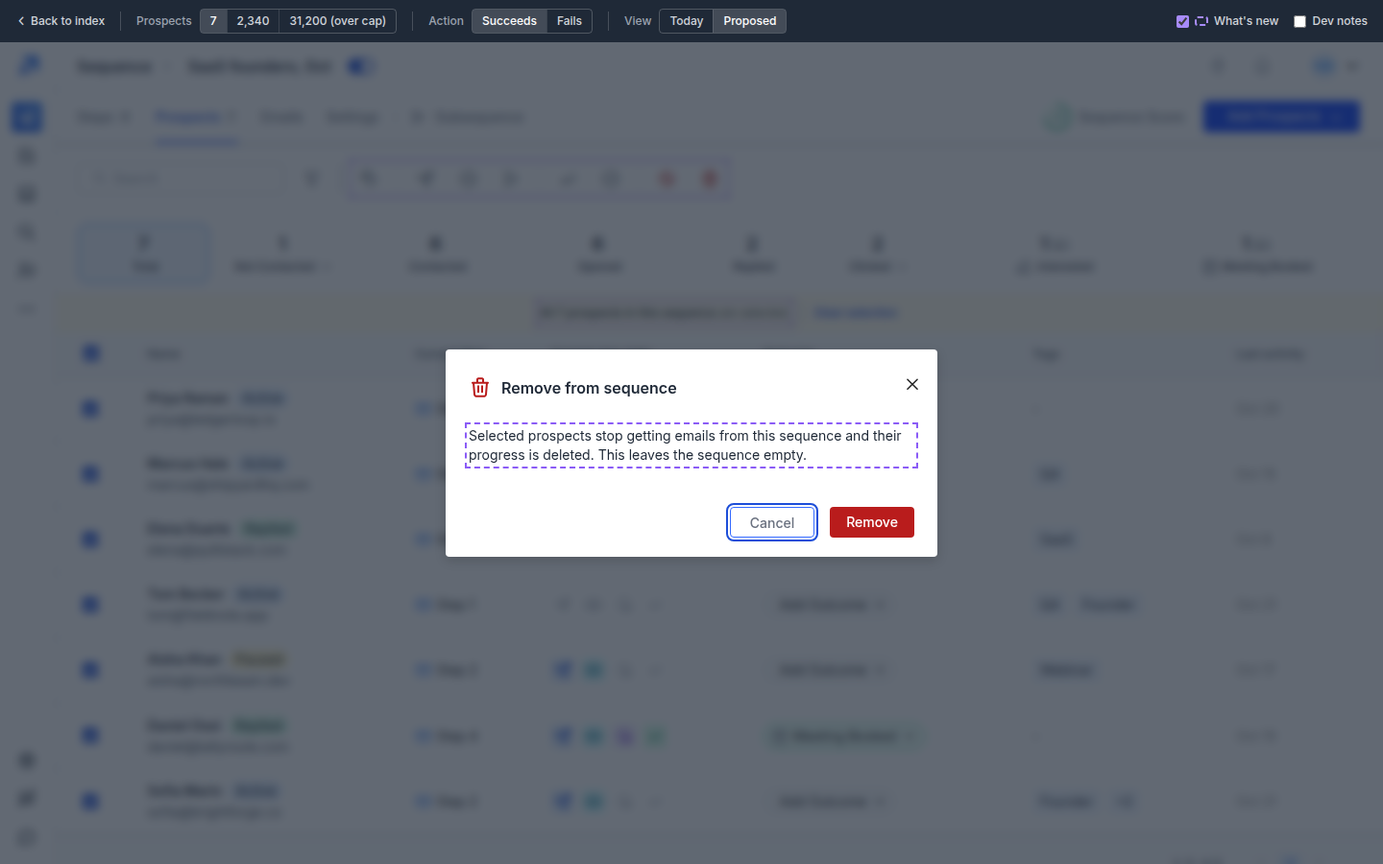
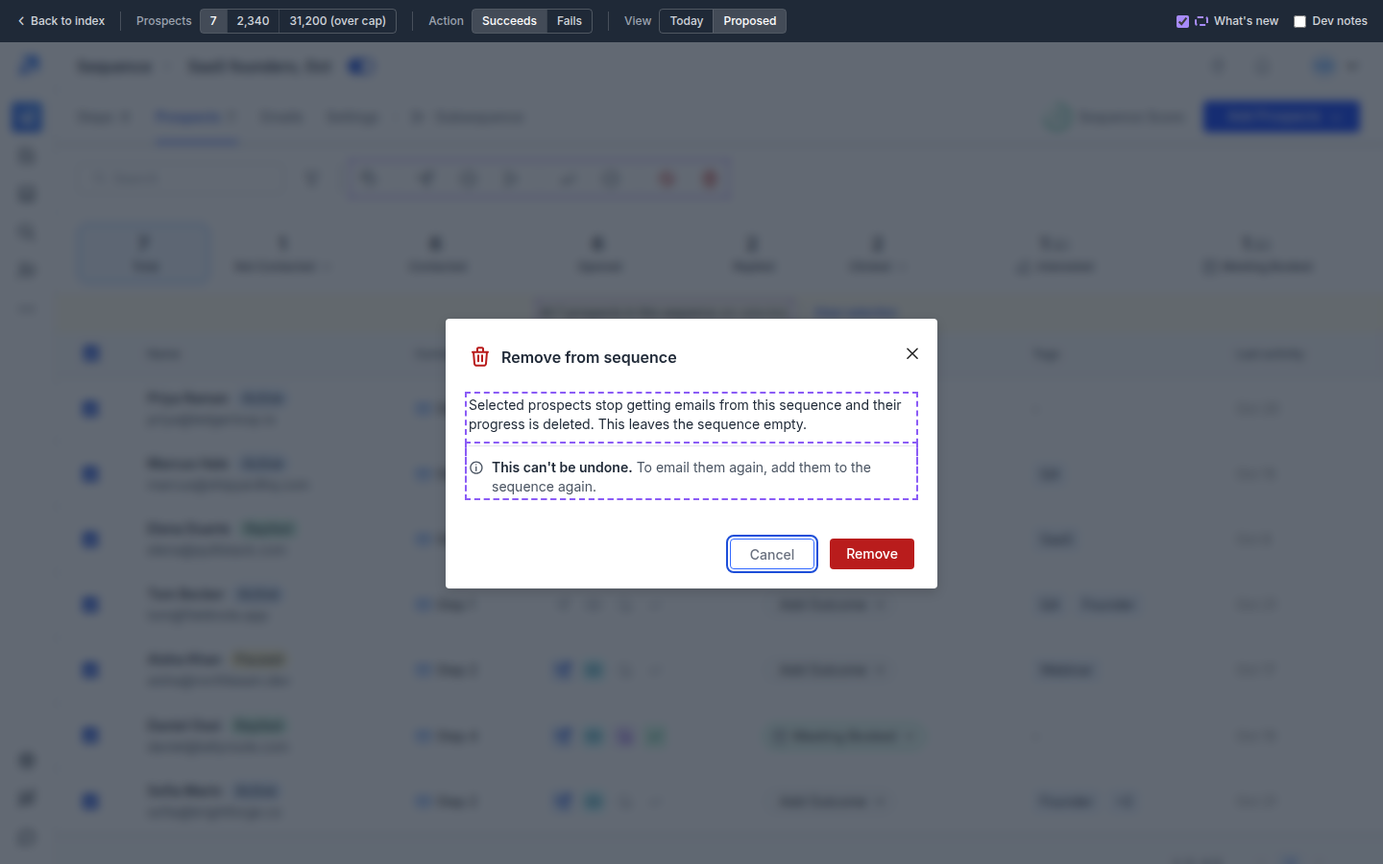
Remove from sequence has no undo; note row at 14px
- Remove dialog carries the grey note: This can't be undone. To email them again, add them to the sequence again.
- Toast after Remove has no Undo; screen 05-seqp-undo dropped
- Note row text 14px/20px to match the body
- PRD D3, 6.1 acceptance, spec (Pause/Resume undo corrected to none), screens and canvas rebuilt

Changed region(s): [[0.3125, 0.3422, 0.6875, 0.6844]]

diff --git a/canvas/index.html b/canvas/index.html
@@ -52,7 +52,7 @@ a{color:var(--primary);text-decoration:none} a:hover{text-decoration:underline;t
 <header class="cv-top">
   <a class="cv-back" href="../index.html">&larr; <span class="cv-back-long">Back to </span>PRD</a>
   <h1>Safe actions: no risky action on one click</h1>
-  <span class="cv-meta">35 screens, 11 surfaces</span>
+  <span class="cv-meta">34 screens, 11 surfaces</span>
   <span class="cv-sp"></span>
   <div class="cv-tools">
     <button class="cv-btn" data-z="out" aria-label="Zoom out" title="Zoom out"><svg viewBox="0 0 24 24" fill="none" stroke="currentColor" stroke-width="2" stroke-linecap="round"><path d="M5 12h14"/></svg></button>
@@ -63,7 +63,7 @@ a{color:var(--primary);text-decoration:none} a:hover{text-decoration:underline;t
 </header>
 <main class="cv-vp" aria-label="Canvas of every screen. Drag to move, Ctrl or Cmd and scroll to zoom, click a screen to open it">
   <div class="cv-board">
-<section class="cv-row" id="surface-6-1"><header class="cv-label"><span class="cv-num">6.1</span><h2>Sequence &gt; Prospects</h2><p>Rows 1-4</p><a class="cv-proto" href="../prototype/sequence-prospects.html" target="_blank" rel="noopener">Open in prototype</a></header><div class="cv-frames"><figure class="cv-frame"><figcaption>Today</figcaption><a class="zoom" href="../screens/01-seqp-today.png" aria-label="View larger: Sequence &gt; Prospects, Today"><img src="../screens/01-seqp-today.png" alt="Sequence &gt; Prospects: Today" width="480" height="300" loading="lazy" draggable="false"></a></figure><figure class="cv-frame"><figcaption>Proposed: icon bar and banner</figcaption><a class="zoom" href="../screens/02-seqp-bar.png" aria-label="View larger: Sequence &gt; Prospects, Proposed: icon bar and banner"><img src="../screens/02-seqp-bar.png" alt="Sequence &gt; Prospects: Proposed: icon bar and banner" width="480" height="300" loading="lazy" draggable="false"></a></figure><figure class="cv-frame"><figcaption>Proposed: remove dialog, whole sequence selected</figcaption><a class="zoom" href="../screens/04-seqp-remove.png" aria-label="View larger: Sequence &gt; Prospects, Proposed: remove dialog, whole sequence selected"><img src="../screens/04-seqp-remove.png" alt="Sequence &gt; Prospects: Proposed: remove dialog, whole sequence selected" width="480" height="300" loading="lazy" draggable="false"></a></figure><figure class="cv-frame"><figcaption>Proposed: unsubscribe dialog, can&#x27;t be undone</figcaption><a class="zoom" href="../screens/03-seqp-unsub.png" aria-label="View larger: Sequence &gt; Prospects, Proposed: unsubscribe dialog, can&#x27;t be undone"><img src="../screens/03-seqp-unsub.png" alt="Sequence &gt; Prospects: Proposed: unsubscribe dialog, can&#x27;t be undone" width="480" height="300" loading="lazy" draggable="false"></a></figure><figure class="cv-frame"><figcaption>Proposed: undo after remove</figcaption><a class="zoom" href="../screens/05-seqp-undo.png" aria-label="View larger: Sequence &gt; Prospects, Proposed: undo after remove"><img src="../screens/05-seqp-undo.png" alt="Sequence &gt; Prospects: Proposed: undo after remove" width="480" height="300" loading="lazy" draggable="false"></a></figure></div></section>
+<section class="cv-row" id="surface-6-1"><header class="cv-label"><span class="cv-num">6.1</span><h2>Sequence &gt; Prospects</h2><p>Rows 1-4</p><a class="cv-proto" href="../prototype/sequence-prospects.html" target="_blank" rel="noopener">Open in prototype</a></header><div class="cv-frames"><figure class="cv-frame"><figcaption>Today</figcaption><a class="zoom" href="../screens/01-seqp-today.png" aria-label="View larger: Sequence &gt; Prospects, Today"><img src="../screens/01-seqp-today.png" alt="Sequence &gt; Prospects: Today" width="480" height="300" loading="lazy" draggable="false"></a></figure><figure class="cv-frame"><figcaption>Proposed: icon bar and banner</figcaption><a class="zoom" href="../screens/02-seqp-bar.png" aria-label="View larger: Sequence &gt; Prospects, Proposed: icon bar and banner"><img src="../screens/02-seqp-bar.png" alt="Sequence &gt; Prospects: Proposed: icon bar and banner" width="480" height="300" loading="lazy" draggable="false"></a></figure><figure class="cv-frame"><figcaption>Proposed: remove dialog, whole sequence selected</figcaption><a class="zoom" href="../screens/04-seqp-remove.png" aria-label="View larger: Sequence &gt; Prospects, Proposed: remove dialog, whole sequence selected"><img src="../screens/04-seqp-remove.png" alt="Sequence &gt; Prospects: Proposed: remove dialog, whole sequence selected" width="480" height="300" loading="lazy" draggable="false"></a></figure><figure class="cv-frame"><figcaption>Proposed: unsubscribe dialog, can&#x27;t be undone</figcaption><a class="zoom" href="../screens/03-seqp-unsub.png" aria-label="View larger: Sequence &gt; Prospects, Proposed: unsubscribe dialog, can&#x27;t be undone"><img src="../screens/03-seqp-unsub.png" alt="Sequence &gt; Prospects: Proposed: unsubscribe dialog, can&#x27;t be undone" width="480" height="300" loading="lazy" draggable="false"></a></figure></div></section>
 <section class="cv-row" id="surface-6-2"><header class="cv-label"><span class="cv-num">6.2</span><h2>Sequence list</h2><p>Rows 5, 37</p><a class="cv-proto" href="../prototype/sequence-list.html" target="_blank" rel="noopener">Open in prototype</a></header><div class="cv-frames"><figure class="cv-frame"><figcaption>Today</figcaption><a class="zoom" href="../screens/06-seql-today.png" aria-label="View larger: Sequence list, Today"><img src="../screens/06-seql-today.png" alt="Sequence list: Today" width="480" height="300" loading="lazy" draggable="false"></a></figure><figure class="cv-frame"><figcaption>Proposed: pause</figcaption><a class="zoom" href="../screens/07-seql-pause.png" aria-label="View larger: Sequence list, Proposed: pause"><img src="../screens/07-seql-pause.png" alt="Sequence list: Proposed: pause" width="480" height="300" loading="lazy" draggable="false"></a></figure><figure class="cv-frame"><figcaption>Proposed: delete</figcaption><a class="zoom" href="../screens/08-seql-delete.png" aria-label="View larger: Sequence list, Proposed: delete"><img src="../screens/08-seql-delete.png" alt="Sequence list: Proposed: delete" width="480" height="300" loading="lazy" draggable="false"></a></figure></div></section>
 <section class="cv-row" id="surface-6-3"><header class="cv-label"><span class="cv-num">6.3</span><h2>Sequence &gt; Steps and Settings</h2><p>Rows 6, 7</p><a class="cv-proto" href="../prototype/sequence-steps.html" target="_blank" rel="noopener">Open in prototype</a></header><div class="cv-frames"><figure class="cv-frame"><figcaption>Today: delete step</figcaption><a class="zoom" href="../screens/09-steps-today.png" aria-label="View larger: Sequence &gt; Steps and Settings, Today: delete step"><img src="../screens/09-steps-today.png" alt="Sequence &gt; Steps and Settings: Today: delete step" width="480" height="300" loading="lazy" draggable="false"></a></figure><figure class="cv-frame"><figcaption>Proposed: delete step</figcaption><a class="zoom" href="../screens/10-steps-delete.png" aria-label="View larger: Sequence &gt; Steps and Settings, Proposed: delete step"><img src="../screens/10-steps-delete.png" alt="Sequence &gt; Steps and Settings: Proposed: delete step" width="480" height="300" loading="lazy" draggable="false"></a></figure><figure class="cv-frame"><figcaption>Today: remove email account</figcaption><a class="zoom" href="../screens/11-steps-remove-today.png" aria-label="View larger: Sequence &gt; Steps and Settings, Today: remove email account"><img src="../screens/11-steps-remove-today.png" alt="Sequence &gt; Steps and Settings: Today: remove email account" width="480" height="300" loading="lazy" draggable="false"></a></figure><figure class="cv-frame"><figcaption>Proposed: remove email account</figcaption><a class="zoom" href="../screens/12-steps-remove.png" aria-label="View larger: Sequence &gt; Steps and Settings, Proposed: remove email account"><img src="../screens/12-steps-remove.png" alt="Sequence &gt; Steps and Settings: Proposed: remove email account" width="480" height="300" loading="lazy" draggable="false"></a></figure></div></section>
 <section class="cv-row" id="surface-6-4"><header class="cv-label"><span class="cv-num">6.4</span><h2>Unified Inbox</h2><p>Rows 8-10</p><a class="cv-proto" href="../prototype/unified-inbox.html" target="_blank" rel="noopener">Open in prototype</a></header><div class="cv-frames"><figure class="cv-frame"><figcaption>Today</figcaption><a class="zoom" href="../screens/13-inbox-today.png" aria-label="View larger: Unified Inbox, Today"><img src="../screens/13-inbox-today.png" alt="Unified Inbox: Today" width="480" height="300" loading="lazy" draggable="false"></a></figure><figure class="cv-frame"><figcaption>Proposed: delete</figcaption><a class="zoom" href="../screens/14-inbox-delete.png" aria-label="View larger: Unified Inbox, Proposed: delete"><img src="../screens/14-inbox-delete.png" alt="Unified Inbox: Proposed: delete" width="480" height="300" loading="lazy" draggable="false"></a></figure><figure class="cv-frame"><figcaption>Proposed: assign outcome</figcaption><a class="zoom" href="../screens/15-inbox-outcome.png" aria-label="View larger: Unified Inbox, Proposed: assign outcome"><img src="../screens/15-inbox-outcome.png" alt="Unified Inbox: Proposed: assign outcome" width="480" height="300" loading="lazy" draggable="false"></a></figure></div></section>

diff --git a/index.html b/index.html
@@ -283,11 +283,11 @@ figure img{width:100%;height:auto}
 
 <p><strong>D1 – The impact dialog appears on every risky action, including a single item.</strong> <strong>Consequence to accept:</strong> one extra step on frequent clean-up work.</p>
 <p><strong>D2 – Typing to confirm stays only where production asks for it today</strong> (typed "delete" on sequence, subsequence, step and variant delete). The Sequence &gt; Prospects dialogs never ask to type. Whether other new red dialogs ask to type is Q5. <strong>Consequence to accept:</strong> on Sequence &gt; Prospects, one click on the red button inside the dialog removes or unsubscribes.</p>
-<p><strong>D3 – Undo lasts 10 seconds; there is no restore after that.</strong> No undo on spends, security switches, plan changes, account deletion, or disconnecting integrations and mailboxes (their side effects outside Saleshandy happen at once). No undo on Unsubscribe: a prospect is shared across sequences, so the system can't tell a user's resubscribe from the recipient's own unsubscribe, a compliance risk. No undo on Mark as finished: undoing would send the remaining steps. Both dialogs say so and give the way back: remove from the sequence and add again (engineering review, 19 Nov 2026). <strong>Consequence to accept:</strong> a mistake noticed later stays unrecoverable; the reported customer noticed after 4 minutes.</p>
+<p><strong>D3 – Undo lasts 10 seconds; there is no restore after that.</strong> No undo on spends, security switches, plan changes, account deletion, or disconnecting integrations and mailboxes (their side effects outside Saleshandy happen at once). No undo on Remove from sequence: their progress in the sequence is deleted. No undo on Unsubscribe: a prospect is shared across sequences, so the system can't tell a user's resubscribe from the recipient's own unsubscribe, a compliance risk. No undo on Mark as finished: undoing would send the remaining steps. All three dialogs say so and give the way back: add them to the sequence again (engineering review, 19 Nov 2026). <strong>Consequence to accept:</strong> a mistake noticed later stays unrecoverable; on Sequence &gt; Prospects the dialog is the only guard for Remove, Unsubscribe and Mark as finished.</p>
 </section>
 <section id="6-surfaces" class="sec"><div class="sec-head"><span class="sec-num">6</span><h2>Surfaces</h2></div>
 
-<p>Every state below opens from the prototype's demo bar, with a Today / Proposed switch on each screen. To compare all 35 screens side by side, open the <a href="canvas/index.html">canvas</a>.</p>
+<p>Every state below opens from the prototype's demo bar, with a Today / Proposed switch on each screen. To compare every screen side by side, open the <a href="canvas/index.html">canvas</a>.</p>
 <h3 id="6-1-sequence-prospects-rows-1-4">6.1 Sequence &gt; Prospects (rows 1-4)</h3>
 <figure><figcaption>Today</figcaption><a class="zoom" href="screens/01-seqp-today.png" aria-label="View larger: Today"><img src="screens/01-seqp-today.png" style="max-width:885px" alt="Today" loading="lazy"></a></figure>
 <p><strong>Why.</strong> The remove action is an X among seven similar icons and fires at once; the banner hides that the selection is the whole sequence.</p>
@@ -295,7 +295,6 @@ figure img{width:100%;height:auto}
 <figure><figcaption>Proposed: icon bar and banner</figcaption><a class="zoom" href="screens/02-seqp-bar.png" aria-label="View larger: Proposed: icon bar and banner"><img src="screens/02-seqp-bar.png" style="max-width:885px" alt="Proposed: icon bar and banner" loading="lazy"></a></figure>
 <figure><figcaption>Proposed: remove dialog, whole sequence selected</figcaption><a class="zoom" href="screens/04-seqp-remove.png" aria-label="View larger: Proposed: remove dialog, whole sequence selected"><img src="screens/04-seqp-remove.png" style="max-width:885px" alt="Proposed: remove dialog, whole sequence selected" loading="lazy"></a></figure>
 <figure><figcaption>Proposed: unsubscribe dialog, can't be undone</figcaption><a class="zoom" href="screens/03-seqp-unsub.png" aria-label="View larger: Proposed: unsubscribe dialog, can't be undone"><img src="screens/03-seqp-unsub.png" style="max-width:885px" alt="Proposed: unsubscribe dialog, can't be undone" loading="lazy"></a></figure>
-<figure><figcaption>Proposed: undo after remove</figcaption><a class="zoom" href="screens/05-seqp-undo.png" aria-label="View larger: Proposed: undo after remove"><img src="screens/05-seqp-undo.png" style="max-width:885px" alt="Proposed: undo after remove" loading="lazy"></a></figure>
 <p><strong>Dialogs.</strong> Title = the action's name with its bar icon; no count, no breakdown, no routine undo line, no typing. Copy per action is in the <a href="https://github.com/product-team-sh/prd-safe-actions/blob/main/safe-actions-spec.md#sequence--prospects-dialogs">spec</a>.</p>
 <div class="tbl-wrap"><table>
 <thead>
@@ -316,42 +315,35 @@ figure img{width:100%;height:auto}
 <tr>
 <td>SP-2</td>
 <td>Remove with all selected</td>
-<td>Title "Remove from sequence"; body ends "This leaves the sequence empty."; Cancel / Remove (red); no typed field</td>
+<td>Title "Remove from sequence"; body ends "This leaves the sequence empty."; note "This can't be undone. To email them again, add them to the sequence again."; Cancel / Remove (red); no typed field</td>
 <td>P0</td>
 </tr>
 <tr>
 <td>SP-3</td>
-<td>Remove, confirm, then Undo within 10 s</td>
-<td>All 7 rows return with the same step, status and outcome; no email went out in between</td>
-<td>P0</td>
-</tr>
-<tr>
-<td>SP-4</td>
-<td>Remove, confirm, wait 10 s</td>
-<td>Removal commits; Undo gone</td>
-<td>P0</td>
-</tr>
-<tr>
-<td>SP-5</td>
-<td>Unsubscribe or Mark as finished, confirm</td>
+<td>Remove, Unsubscribe or Mark as finished, confirm</td>
 <td>Dialog said "This can't be undone." and the way back; toast has no Undo</td>
 <td>P0</td>
 </tr>
 <tr>
-<td>SP-6</td>
+<td>SP-4</td>
+<td>Cancel, Esc or the X on any of these dialogs</td>
+<td>Nothing changes; selection kept</td>
+<td>P0</td>
+</tr>
+<tr>
+<td>SP-5</td>
 <td>Selection includes prospects already in the target state (e.g. already unsubscribed)</td>
 <td>Dialog adds "Prospects who are already unsubscribed will be skipped."; line absent when nobody is skipped</td>
 <td>P1</td>
 </tr>
 <tr>
-<td>SP-7</td>
+<td>SP-6</td>
 <td>Mark as replied, Pause, Resume</td>
 <td>Dialog states the consequence; Pause keeps today's duration picker; replied gets the 10 s undo</td>
 <td>P1</td>
 </tr>
 </tbody>
 </table></div>
-<p><strong>Sign off by name (owner: QA lead, unassigned):</strong> SP-3. Its failure loses customer data while telling the user it is safe.</p>
 <h3 id="6-2-sequence-list-rows-5-37">6.2 Sequence list (rows 5, 37)</h3>
 <figure><figcaption>Today</figcaption><a class="zoom" href="screens/06-seql-today.png" aria-label="View larger: Today"><img src="screens/06-seql-today.png" style="max-width:885px" alt="Today" loading="lazy"></a></figure>
 <p><strong>Why.</strong> Bulk pause names neither the sequences nor how many prospects stop; delete says nothing about what is lost.</p>

diff --git a/prototype/sequence-prospects.js b/prototype/sequence-prospects.js
@@ -117,9 +117,9 @@
       { key: 'view', label: 'View', value: S.view, options: [['today', 'Today'], ['proposed', 'Proposed']], onChange: (v) => { S.view = v; render(); } },
     ],
     devNotes: {
-      intro: 'Bulk bar is icon-only with tooltips; each confirmation is short: action name, one sentence, a skipped-prospects line only when some selected prospects will be skipped, and a grey "This can\'t be undone" note row only for Unsubscribe and Mark as finished. No counts, no typing. Direction D, 19 Nov 2026.',
+      intro: 'Bulk bar is icon-only with tooltips; each confirmation is short: action name, one sentence, a skipped-prospects line only when some selected prospects will be skipped, and a grey "This can\'t be undone" note row only for Remove, Unsubscribe and Mark as finished. No counts, no typing. Direction D, 19 Nov 2026.',
       rows: [
-        { n: 1, surface: 'Sequence > Prospects', action: 'Remove from sequence, Unsubscribe', patterns: 'Red icon and button', breakdown: 'None. Remove: "Selected prospects stop getting emails from this sequence and their progress is deleted.", plus "This leaves the sequence empty." when every prospect is selected. Unsubscribe: "Selected prospects will not get emails from any sequence again.", "Prospects who are already unsubscribed will be skipped." (only when it applies), note: "This can\'t be undone. To email them again, remove them from the sequence and add them again."', undo: 'Remove: 10 seconds. Unsubscribe: none, it cannot be reversed',
+        { n: 1, surface: 'Sequence > Prospects', action: 'Remove from sequence, Unsubscribe', patterns: 'Red icon and button', breakdown: 'None. Remove: "Selected prospects stop getting emails from this sequence and their progress is deleted.", plus "This leaves the sequence empty." when every prospect is selected, note: "This can\'t be undone. To email them again, add them to the sequence again." Unsubscribe: "Selected prospects will not get emails from any sequence again.", "Prospects who are already unsubscribed will be skipped." (only when it applies), note: "This can\'t be undone. To email them again, remove them from the sequence and add them again."', undo: 'None. Remove deletes their progress; Unsubscribe cannot be reversed',
           code: [{ label: 'contact-list-header.tsx L119-152', url: HDR + '#L119-L152' }, { label: 'contact-list-content.tsx L542-608', url: CNT + '#L542-L608' }], v3: '' },
         { n: 2, surface: 'Sequence > Prospects', action: 'Mark as replied, Mark as finished, Resume, Pause', patterns: 'Blue icon and button', breakdown: 'None. Replied: "The sequence stops for selected prospects.", skipped line "Prospects who are already marked as replied will be skipped." Finished: same body, "Prospects who are already finished will be skipped.", note: "This can\'t be undone. To bring them back, remove them from the sequence and add them again." Resume: "Selected prospects continue from their current step.", skip "not paused". Pause: "Emails to selected prospects stop until the pause ends or you resume them.", skip "not in progress".', undo: 'Replied: 10 seconds. Finished, Resume, Pause: none',
           code: [{ label: 'contact-list-header.tsx L131-185', url: HDR + '#L131-L185' }, { label: 'contact-list-content.tsx L586-647 (pause keeps its duration picker)', url: CNT + '#L586-L647' }], v3: '' },
@@ -320,16 +320,12 @@
       return shortDialog({
         name: 'Remove from sequence', glyph: GLYPH.remove, danger: true, primaryLabel: 'Remove',
         body: 'Selected prospects stop getting emails from this sequence and their progress is deleted.' + (every ? ' This leaves the sequence empty.' : ''),
-        failTitle: fail('remove'),
+        cant: 'To email them again, add them to the sequence again.', failTitle: fail('remove'),
         onConfirm: () => {
-          const ids = list.map((p) => p.id);
-          ids.forEach((i) => hidden.add(i));
+          const set = new Set(list.map((p) => p.id));
+          DATA = DATA.filter((p) => !set.has(p.id));
           clearSel(); render();
-          nxUndoToast({
-            message: `Removed ${nP(N)} from ${QSEQ}`, undoneMessage: `Undone. ${nP(N)} ${N === 1 ? 'is' : 'are'} back`,
-            onUndo: () => { ids.forEach((i) => hidden.delete(i)); clearSel(); render(); },
-            onCommit: () => { const set = new Set(ids); DATA = DATA.filter((p) => !set.has(p.id)); ids.forEach((i) => hidden.delete(i)); render(); },
-          });
+          nxToast({ message: `Removed ${nP(N)} from ${QSEQ}` });
         },
       });
     }
@@ -440,7 +436,6 @@
       'dialog-unsubscribe': () => { firstN(S.size === '7' ? 7 : 25); openAction('unsubscribe'); },
       'dialog-single': () => { firstN(1); openAction('remove'); },
       'toast': () => { S.all = true; render(); const d = openAction('remove'); setTimeout(() => d.confirm(), (window.SP_BD || 0) + 50); },
-      'undone': () => { S.all = true; render(); const d = openAction('remove'); setTimeout(() => { d.confirm(); setTimeout(() => document.querySelector('.message-undo').click(), 1000); }, (window.SP_BD || 0) + 50); },
       'today': () => { S.view = 'today'; shell.setControl('view', 'today'); firstN(S.size === '7' ? 7 : 3); },
       'today-pause': () => { S.view = 'today'; shell.setControl('view', 'today'); firstN(7); window.SP_TODAY_PAUSE(() => {}); },
     };

diff --git a/prototype/bar-popups-options.html b/prototype/bar-popups-options.html
@@ -45,8 +45,8 @@ p.l { margin: 0 0 8px; color: #4b5563; }
 .opt-dlg .modal-footer { border-top: 0 !important; }
 .opt-dlg .modal-footer .bs-modal-footer-action-buttons { justify-content: flex-end; }
 .opt-dlg .modal-footer .bs-modal-footer-action-buttons button { width: auto; min-width: 88px; }
-.nx-qnote { display: flex; gap: 8px; align-items: flex-start; padding-top: 12px; border-top: 1px solid #e5e7eb; font-size: 12px; line-height: 16px; color: #4b5563; }
-.nx-qnote i { font-size: 16px; width: 16px; height: 16px; line-height: 16px; color: #4b5563; flex-shrink: 0; }
+.nx-qnote { display: flex; gap: 8px; align-items: flex-start; padding-top: 12px; border-top: 1px solid #e5e7eb; font-size: 14px; line-height: 20px; color: #4b5563; }
+.nx-qnote i { font-size: 16px; width: 16px; height: 16px; line-height: 16px; margin-top: 2px; color: #4b5563; flex-shrink: 0; }
 .nx-qnote b { font-weight: 600; color: #1f2937; }
 </style>
 </head>
@@ -108,7 +108,7 @@ p.l { margin: 0 0 8px; color: #4b5563; }
     c.el.remove();
     document.activeElement && document.activeElement.blur();
   }
-  card('Remove from sequence. Red, no typing. Undo toast for 10 seconds after. The empty-sequence line shows only when every prospect is selected.', { name: 'Remove from sequence', glyph: 'trash', danger: true, primary: 'Remove', body: 'Selected prospects stop getting emails from this sequence and their progress is deleted. This leaves the sequence empty.' });
+  card('Remove from sequence. Red, no typing, no undo, so the grey note row. The empty-sequence line shows only when every prospect is selected.', { name: 'Remove from sequence', glyph: 'trash', danger: true, primary: 'Remove', body: 'Selected prospects stop getting emails from this sequence and their progress is deleted. This leaves the sequence empty.', cant: 'To email them again, add them to the sequence again.' });
   card('Unsubscribe. Red, no typing, no undo, so the grey note row. Shown with some already unsubscribed.', { name: 'Unsubscribe', glyph: 'unavailable', danger: true, primary: 'Unsubscribe', body: 'Selected prospects will not get emails from any sequence again.', excl: 'Prospects who are already unsubscribed will be skipped.', cant: 'To email them again, remove them from the sequence and add them again.' });
   card('Mark as replied. Undo toast for 10 seconds after.', { name: 'Mark as replied', glyph: 'round-corner-arrow-back', primary: 'Mark as replied', body: 'The sequence stops for selected prospects.', excl: 'Prospects who are already marked as replied will be skipped.' });
   card('Mark as finished. No undo, so the grey note row.', { name: 'Mark as finished', glyph: 'circle-check', primary: 'Mark as finished', body: 'The sequence stops for selected prospects.', excl: 'Prospects who are already finished will be skipped.', cant: 'To bring them back, remove them from the sequence and add them again.' });

diff --git a/prototype/sequence-prospects.html b/prototype/sequence-prospects.html
@@ -53,14 +53,14 @@
 .nx-pause .bs-input-number-container { flex-shrink: 0; }
 .nx-pause .bs-input-number-input { width: 100%; border: 0; outline: 0; padding: 0 8px; font: 14px/20px Inter, sans-serif; color: #1f2937; background: transparent; }
 .nx-pause .nx-field-err { margin: 0; font-size: 12px; line-height: 16px; color: #b91c1c; }
-/* popup direction D (approved 19 Nov 2026): 32rem card, no header or footer rule, grey note row only for can't-undo */
+/* popup direction D (approved 19 Nov 2026): 32rem card, no header or footer rule, grey note row for can't-undo (Remove, Unsubscribe, Mark as finished) */
 .confirmation-modal-v3.nx-dD .modal-dialog { width: 32rem !important; max-width: calc(100vw - 32px); }
 .nx-dD .modal-header { border-bottom: 0 !important; padding-bottom: 0 !important; }
 .nx-dD .modal-footer { border-top: 0 !important; }
 .nx-dD .nx-impact { gap: 12px; }
 .nx-dD .nx-note { font-size: 14px; }
-.nx-qnote { display: flex; gap: 8px; align-items: flex-start; padding-top: 12px; border-top: 1px solid #e5e7eb; font-size: 12px; line-height: 16px; color: #4b5563; }
-.nx-qnote i { font-size: 16px; width: 16px; height: 16px; line-height: 16px; color: #4b5563; flex-shrink: 0; }
+.nx-qnote { display: flex; gap: 8px; align-items: flex-start; padding-top: 12px; border-top: 1px solid #e5e7eb; font-size: 14px; line-height: 20px; color: #4b5563; }
+.nx-qnote i { font-size: 16px; width: 16px; height: 16px; line-height: 16px; margin-top: 2px; color: #4b5563; flex-shrink: 0; }
 .nx-qnote b { font-weight: 600; color: #1f2937; }
 @media (min-width: 601px) {
   .nx-dD .modal-footer .bs-modal-footer-action-buttons { justify-content: flex-end; }

diff --git a/safe-actions-spec.md b/safe-actions-spec.md
@@ -10,7 +10,7 @@ Companion to the clickable prototype in [prototype/](prototype/index.html). Sour
 | At the click | **F** impact dialog on every risky action, from one item to 25,000. Every red F dialog also asks the user to type the action's verb, extending today's typed "delete" (23 Oct 2026) | Tiered rule, plain dialog, typing on blue dialogs |
 | After the click | **H** 10-second undo, backed by a delayed, cancellable job | 30-day restore, activity record |
 | Guard the account | **K** prove it is you, **L** total cost before any spend, **M** plan changes name what stops | |
-| Sequence > Prospects (engineering review, 19 Nov 2026) | Icon-only bar in a fixed order; short dialogs (see [Sequence > Prospects dialogs](#sequence--prospects-dialogs)); no typing; no undo on Unsubscribe and Mark as finished | Change status menu, breakdown, count in the title, routine undo line, typed verb |
+| Sequence > Prospects (engineering review, 19 Nov 2026) | Icon-only bar in a fixed order; short dialogs (see [Sequence > Prospects dialogs](#sequence--prospects-dialogs)); no typing; no undo on Remove, Unsubscribe and Mark as finished | Change status menu, breakdown, count in the title, routine undo line, typed verb |
 
 Everything below states the required outcome. How it is built is dev's call.
 
@@ -64,7 +64,7 @@ One dialog pattern for every risky action. Anatomy, top to bottom:
 |---|---|---|
 | Title | Verb + count + noun + where, as a question. Single item: name it | "Remove 7 prospects from "SaaS founders, Oct"?" / "Delete the custom field "Industry"?" |
 | Breakdown | Up to 4 rows describing **what is affected**: the selection split by status, or the knock-on (sequences that pause, prospects that lose a value). Rows with 0 are hidden. If only one row would show, write it as a sentence instead | Still in progress 1,906 / Email scheduled in the next hour 214 / Replied 312 / Paused 122 |
-| Consequence | One or two short sentences: what stops, what is lost, and whether it can be undone | "They stop getting emails from this sequence. You can undo this for 10 seconds; after that their progress here is gone." |
+| Consequence | One or two short sentences: what stops, what is lost, and whether it can be undone | "Its value is cleared on 2,340 prospects. This can't be undone." |
 | Buttons | Secondary "Cancel". Primary = verb + count + noun, never "Yes" or "OK". When one item is named in the title, verb + noun with no "1" | "Remove 7 prospects" / "Remove prospect" |
 | Colour | Red primary when data is lost: something is deleted, removed with its history (remove from sequence), or can never be undone (unsubscribe). Blue when nothing is lost and it can be redone by hand: pause, resume, assign outcome, skip, remove tags, remove from a list | |
 
@@ -86,12 +86,12 @@ Short form of F. Card 32rem. Title = action name with its bar icon. Body = conse
 
 | Action | Colour | Body | Skipped line | Note | Undo |
 |---|---|---|---|---|---|
-| Remove from sequence | Red, trash | "Selected prospects stop getting emails from this sequence and their progress is deleted." Whole sequence selected: adds "This leaves the sequence empty." | | | 10 s |
+| Remove from sequence | Red, trash | "Selected prospects stop getting emails from this sequence and their progress is deleted." Whole sequence selected: adds "This leaves the sequence empty." | | "**This can't be undone.** To email them again, add them to the sequence again." | None |
 | Unsubscribe | Red, ban | "Selected prospects will not get emails from any sequence again." | "Prospects who are already unsubscribed will be skipped." | "**This can't be undone.** To email them again, remove them from the sequence and add them again." | None |
 | Mark as replied | Blue | "The sequence stops for selected prospects." | "Prospects who are already marked as replied will be skipped." | | 10 s |
 | Mark as finished | Blue | "The sequence stops for selected prospects." | "Prospects who are already finished will be skipped." | "**This can't be undone.** To bring them back, remove them from the sequence and add them again." | None |
-| Pause | Blue | "Emails to selected prospects stop until the pause ends or you resume them." Today's duration picker kept | "Prospects who are not in progress will be skipped." | | 10 s |
-| Resume | Blue | "Selected prospects continue from their current step." | "Prospects who are not paused will be skipped." | | 10 s |
+| Pause | Blue | "Emails to selected prospects stop until the pause ends or you resume them." Today's duration picker kept | "Prospects who are not in progress will be skipped." | | None |
+| Resume | Blue | "Selected prospects continue from their current step." | "Prospects who are not paused will be skipped." | | None |
 
 Buttons: Cancel and the action's name ("Remove", "Unsubscribe", "Mark as replied").
 
@@ -99,15 +99,15 @@ Buttons: Cancel and the action's name ("Remove", "Unsubscribe", "Mark as replied
 
 | Rule | Detail |
 |---|---|
-| What the user sees | Rows leave the table at once. A toast at the bottom: "Removed 7 prospects from "SaaS founders, Oct"" with **Undo** and a 10-second ring |
+| What the user sees | Rows leave the table at once. A toast at the bottom: "Deleted 4 prospects" with **Undo** and a 10-second ring |
 | Hover | The timer pauses while the pointer is on the toast |
-| Undo | Rows come back exactly as they were (same position, status and selection cleared). Toast: "Undone. 7 prospects are back" |
+| Undo | Rows come back exactly as they were (same position, status and selection cleared). Toast: "Undone. 4 prospects are back" |
 | Expiry | After 10 seconds the toast closes and the action is final |
 | Leaving the page | The action still completes after 10 seconds. Undo is not offered elsewhere |
 | Two actions in a row | The second toast replaces the first; the first commits immediately |
 | Required backend outcome | The real change starts only after 10 seconds and can be cancelled before then. Several of these actions already run as background jobs ("Estimated time: 30 minutes"), which makes the delay a scheduling change, not a rewrite |
 
-Not offered for: spends (credits, plan changes), security switches, account deletion, disconnecting integrations or mailboxes (side effects outside Saleshandy happen at once), Unsubscribe (a prospect is shared, so a resubscribe can't be told from the recipient's own unsubscribe) and Mark as finished (undoing would send the remaining steps). These rely on F, K, L, M.
+Not offered for: spends (credits, plan changes), security switches, account deletion, disconnecting integrations or mailboxes (side effects outside Saleshandy happen at once), Remove from sequence on Sequence > Prospects (their progress is deleted), Unsubscribe (a prospect is shared, so a resubscribe can't be told from the recipient's own unsubscribe) and Mark as finished (undoing would send the remaining steps). These rely on F, K, L, M.
 
 ## K. Prove it is you
 
@@ -144,10 +144,10 @@ Every P1 and P2 row of the audit, mapped. "Breakdown" lists the rows the F dialo
 
 | # | Surface | Action | Patterns | Breakdown / data the dialog needs | Undo | Prototype page |
 |---|---|---|---|---|---|---|
-| 1 | Sequence > Prospects | Remove from sequence | A B F H | None (short dialog) | Yes | sequence-prospects.html |
+| 1 | Sequence > Prospects | Remove from sequence | A B F | None (short dialog) | No | sequence-prospects.html |
 | 2 | Sequence > Prospects | Unsubscribe | A B F | None; count of already unsubscribed for the skipped line | No | sequence-prospects.html |
 | 3 | Sequence > Prospects | Mark as replied, Mark as finished | A F, H on replied only | None; count already in that state for the skipped line | Replied yes, finished no | sequence-prospects.html |
-| 4 | Sequence > Prospects | Pause, Resume | A F H | None; count not in progress (pause) or not paused (resume) for the skipped line | Yes | sequence-prospects.html |
+| 4 | Sequence > Prospects | Pause, Resume | A F | None; count not in progress (pause) or not paused (resume) for the skipped line | No | sequence-prospects.html |
 | 5 | Sequence list | Bulk pause / resume (up to 100) | A B F H | Sequences named (first 3 + "and N more"), active prospects affected, subsequences | Yes | sequence-list.html |
 | 6 | Sequence > Steps | Delete step (keeps today's typed "delete" inside F) | F | Prospects currently on this step, emails scheduled from it, where those prospects go next | No | sequence-steps.html |
 | 7 | Sequence > Settings | Remove email account from sequence | F | Account named, prospects whose next email was due from it, follow-ups that stop | No | sequence-steps.html |

diff --git a/PRD.md b/PRD.md
@@ -44,11 +44,11 @@ About 110 risky actions audited: about 35 unconfirmed, about 35 with a confirmat
 
 **D2 – Typing to confirm stays only where production asks for it today** (typed "delete" on sequence, subsequence, step and variant delete). The Sequence > Prospects dialogs never ask to type. Whether other new red dialogs ask to type is Q5. **Consequence to accept:** on Sequence > Prospects, one click on the red button inside the dialog removes or unsubscribes.
 
-**D3 – Undo lasts 10 seconds; there is no restore after that.** No undo on spends, security switches, plan changes, account deletion, or disconnecting integrations and mailboxes (their side effects outside Saleshandy happen at once). No undo on Unsubscribe: a prospect is shared across sequences, so the system can't tell a user's resubscribe from the recipient's own unsubscribe, a compliance risk. No undo on Mark as finished: undoing would send the remaining steps. Both dialogs say so and give the way back: remove from the sequence and add again (engineering review, 19 Nov 2026). **Consequence to accept:** a mistake noticed later stays unrecoverable; the reported customer noticed after 4 minutes.
+**D3 – Undo lasts 10 seconds; there is no restore after that.** No undo on spends, security switches, plan changes, account deletion, or disconnecting integrations and mailboxes (their side effects outside Saleshandy happen at once). No undo on Remove from sequence: their progress in the sequence is deleted. No undo on Unsubscribe: a prospect is shared across sequences, so the system can't tell a user's resubscribe from the recipient's own unsubscribe, a compliance risk. No undo on Mark as finished: undoing would send the remaining steps. All three dialogs say so and give the way back: add them to the sequence again (engineering review, 19 Nov 2026). **Consequence to accept:** a mistake noticed later stays unrecoverable; on Sequence > Prospects the dialog is the only guard for Remove, Unsubscribe and Mark as finished.
 
 ## 6. Surfaces
 
-Every state below opens from the prototype's demo bar, with a Today / Proposed switch on each screen. To compare all 35 screens side by side, open the [canvas](canvas/index.html).
+Every state below opens from the prototype's demo bar, with a Today / Proposed switch on each screen. To compare every screen side by side, open the [canvas](canvas/index.html).
 
 ### 6.1 Sequence > Prospects (rows 1-4)
 
@@ -64,21 +64,16 @@ Every state below opens from the prototype's demo bar, with a Today / Proposed s
 
 ![Proposed: unsubscribe dialog, can't be undone](screens/03-seqp-unsub.png)
 
-![Proposed: undo after remove](screens/05-seqp-undo.png)
-
 **Dialogs.** Title = the action's name with its bar icon; no count, no breakdown, no routine undo line, no typing. Copy per action is in the [spec](https://github.com/product-team-sh/prd-safe-actions/blob/main/safe-actions-spec.md#sequence--prospects-dialogs).
 
 | ID | Case | Expected | P |
 |---|---|---|---|
 | SP-1 | 7 prospects, header checkbox ticked | Banner reads "All 7 prospects in this sequence are selected." | P0 |
-| SP-2 | Remove with all selected | Title "Remove from sequence"; body ends "This leaves the sequence empty."; Cancel / Remove (red); no typed field | P0 |
-| SP-3 | Remove, confirm, then Undo within 10 s | All 7 rows return with the same step, status and outcome; no email went out in between | P0 |
-| SP-4 | Remove, confirm, wait 10 s | Removal commits; Undo gone | P0 |
-| SP-5 | Unsubscribe or Mark as finished, confirm | Dialog said "This can't be undone." and the way back; toast has no Undo | P0 |
-| SP-6 | Selection includes prospects already in the target state (e.g. already unsubscribed) | Dialog adds "Prospects who are already unsubscribed will be skipped."; line absent when nobody is skipped | P1 |
-| SP-7 | Mark as replied, Pause, Resume | Dialog states the consequence; Pause keeps today's duration picker; replied gets the 10 s undo | P1 |
-
-**Sign off by name (owner: QA lead, unassigned):** SP-3. Its failure loses customer data while telling the user it is safe.
+| SP-2 | Remove with all selected | Title "Remove from sequence"; body ends "This leaves the sequence empty."; note "This can't be undone. To email them again, add them to the sequence again."; Cancel / Remove (red); no typed field | P0 |
+| SP-3 | Remove, Unsubscribe or Mark as finished, confirm | Dialog said "This can't be undone." and the way back; toast has no Undo | P0 |
+| SP-4 | Cancel, Esc or the X on any of these dialogs | Nothing changes; selection kept | P0 |
+| SP-5 | Selection includes prospects already in the target state (e.g. already unsubscribed) | Dialog adds "Prospects who are already unsubscribed will be skipped."; line absent when nobody is skipped | P1 |
+| SP-6 | Mark as replied, Pause, Resume | Dialog states the consequence; Pause keeps today's duration picker; replied gets the 10 s undo | P1 |
 
 ### 6.2 Sequence list (rows 5, 37)
 
